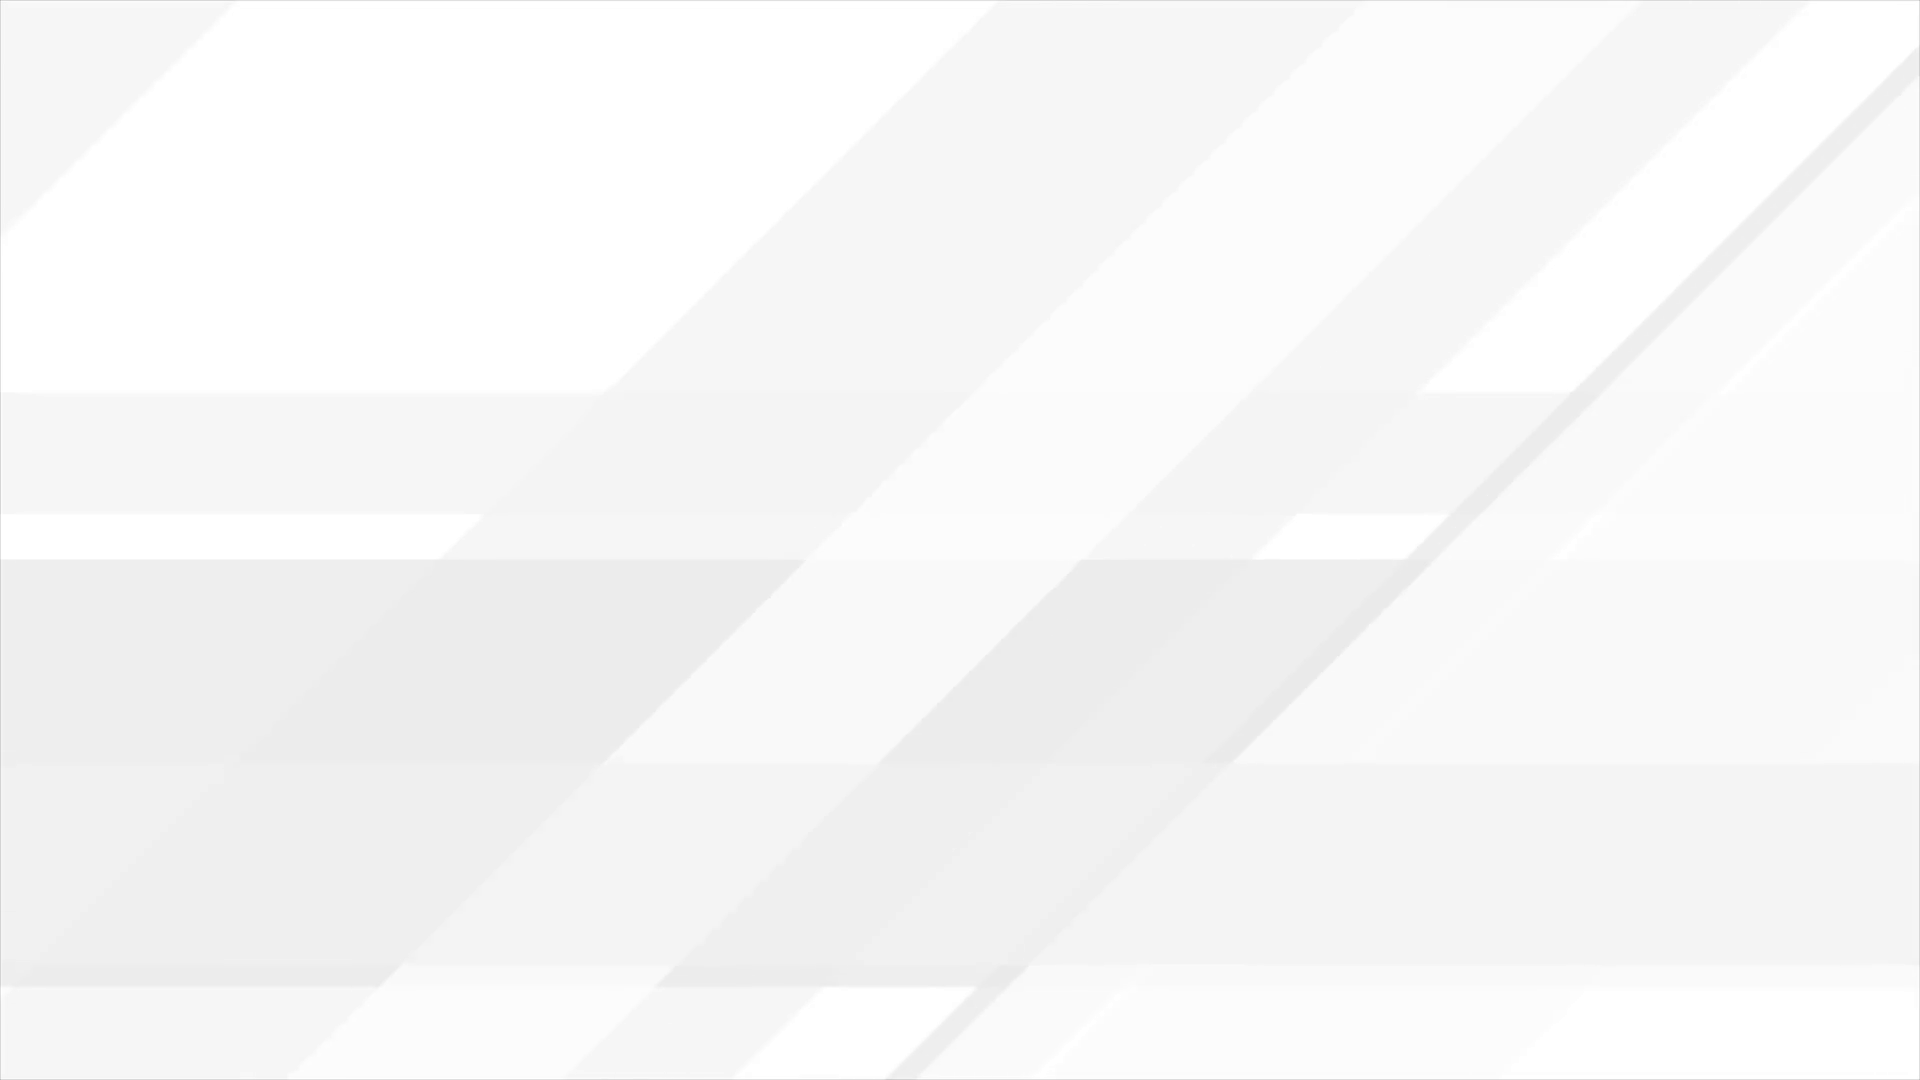
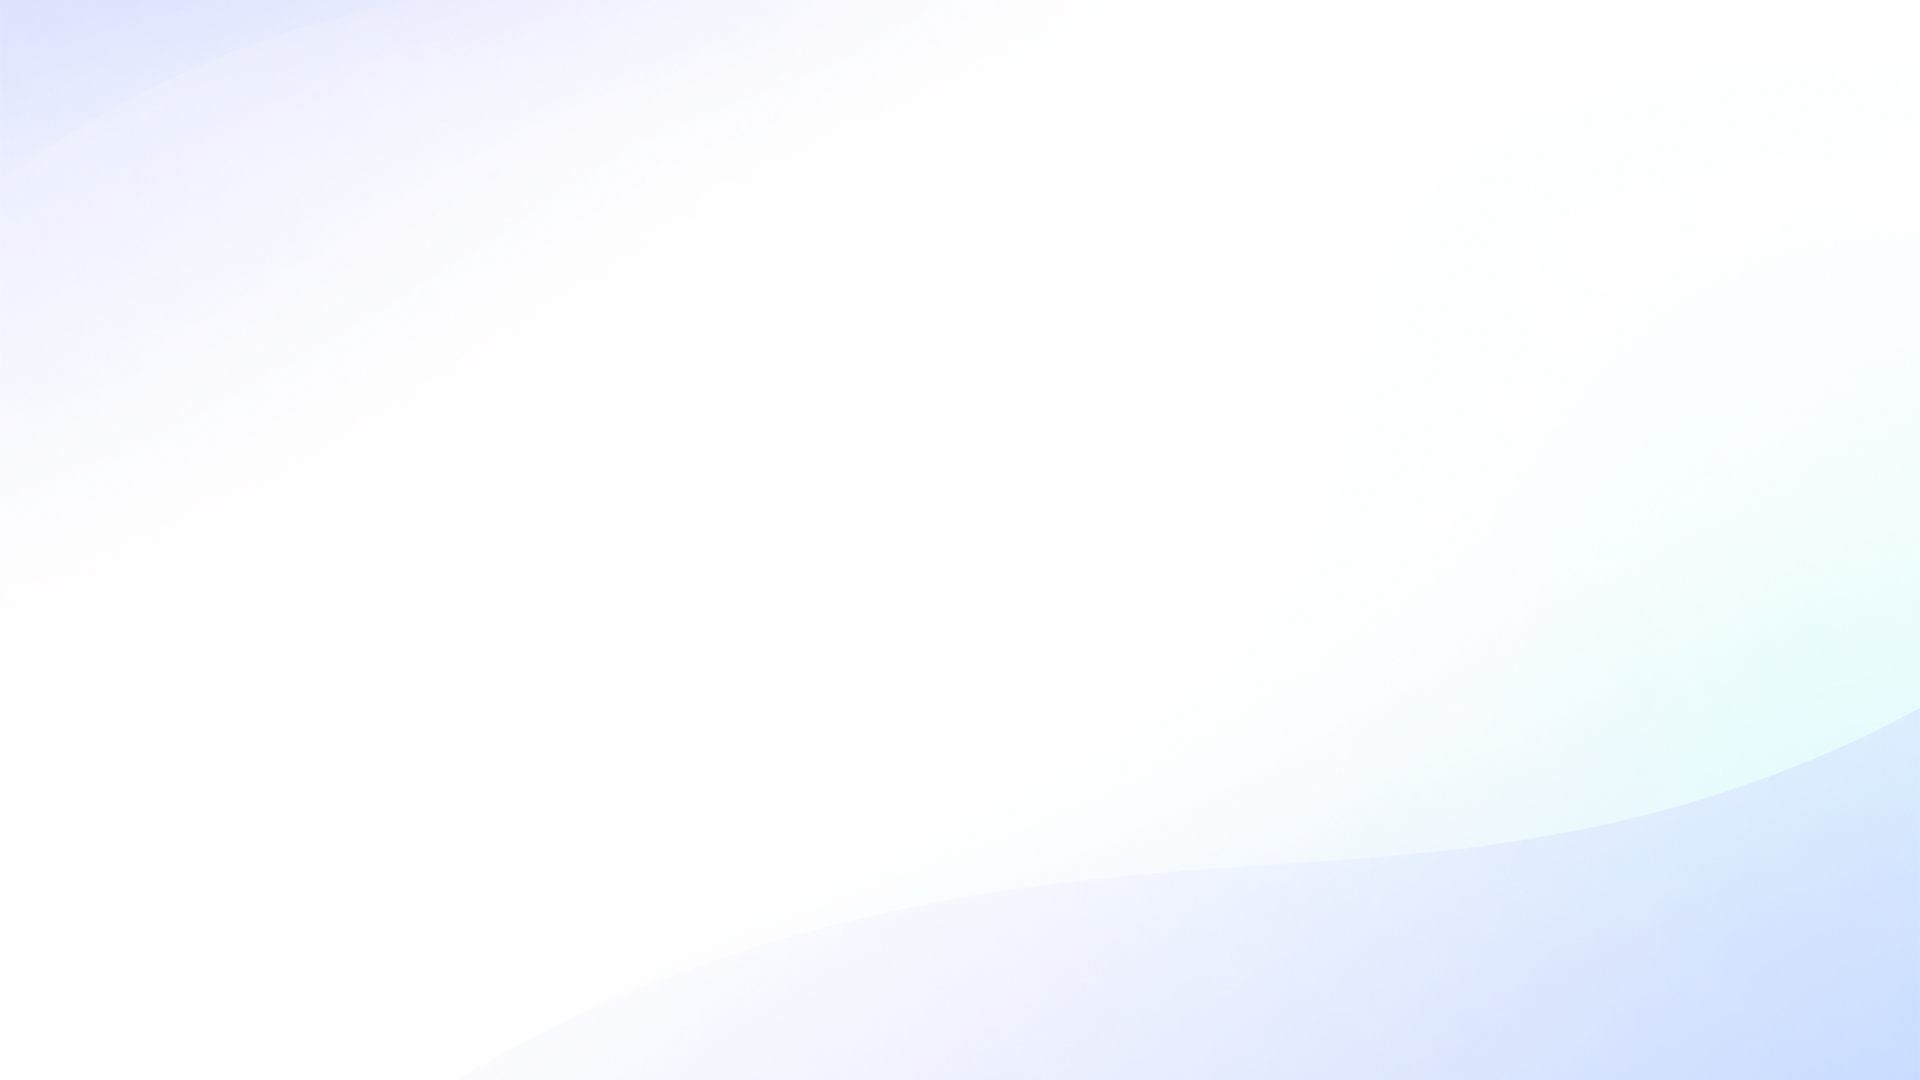
new style with the new corporate image

Changed region(s): [[0.6562, 0.6417, 1.0, 1.0], [0.0, 0.0, 0.1875, 0.0611]]

diff --git a/style.css b/style.css
@@ -1,8 +1,8 @@
 /* 
   * CSS Including Icon Styles
  * Based on CSS Created by K. Rhodus - QSC
- * Version 1.2
- * Antonio Vargas 2025
+ * Version 1.3
+ * Antonio Vargas 2026
 
   Look here for new icons to add (for -qsc-icon-font: material):
   https://fonts.google.com/icons
@@ -46,27 +46,27 @@ https://fontawesome.com/search?ic=free
     --icon-align: center;
     --text-align: center;
 
-    --button-color-off: rgb(237, 237, 237);
-    --text-color-off:rgb(98, 61, 104); 
-    --icon-color-off: rgb(98, 61, 104); 
-    --border-color-off: rgb(237, 237, 237);
+    --button-color-off: rgb(255, 255, 255);
+    --text-color-off:rgb(18, 43, 133); 
+    --icon-color-off: rgb(18, 43, 133); 
+    --border-color-off: rgb(255, 255, 255);
 
-    --button-color-on: rgb(98, 61, 104);
+    --button-color-on: rgb(18, 43, 133);
     --text-color-on: rgb(237, 237, 237);
     --icon-color-on: rgb(237, 237, 237);
-    --border-color-on: rgb(98, 61, 104);
+    --border-color-on: rgb(18, 43, 133);
     
     --label-color-primary:rgb(37, 37, 37);
-    --label-color-secondary: rgb(217, 209, 198); 
+    --label-color-secondary: rgb(255, 255, 255); 
     
-    --icon-colored: rgb(98, 61, 104); 
+    --icon-colored: rgb(18, 43, 133); 
     /*https://cssgradient.io/*/
     --fader-gradient: linear-gradient(0deg, rgb(5, 5, 5) 10%, rgb(235, 162, 5) 70%, rgb(255, 25, 0) 100%);
-    --base-var: rgb(98, 61, 104);
-    --end-var: rgb(134, 88, 141);
+    --base-var: rgb(18, 43, 133);
+    --end-var: rgb(18, 43, 133);
 
     --background-color: rgb(228, 222, 233);
-    --button-border-radius: 6px;
+    --button-border-radius: 1px;
 
     --default-font-size: 40vh;
 }
@@ -133,7 +133,7 @@ Keep coping icons that you are interested of from the Icons_Materials and Icons_
 .dummy-button
 {
     background-color: var(--button-color-off);
-    border: 1px;
+    border: var(--button-border-radius);
     border-radius: var(--button-border-radius);
     color: var(--text-color-off);
     -qsc-icon-color: var(--icon-color-off);
@@ -143,8 +143,8 @@ Keep coping icons that you are interested of from the Icons_Materials and Icons_
 
 .project-button
 {
-    background-color: white;
-    border: 1px;
+    background-color: var(--button-color-off);
+    border: var(--button-border-radius);
     border-radius: var(--button-border-radius);
     color: var(--text-color-off);
     -qsc-icon-color: var(--icon-color-off);
@@ -159,7 +159,7 @@ Keep coping icons that you are interested of from the Icons_Materials and Icons_
     background: linear-gradient(to top left,var(--base-var), var(--end-var));
     */
     background: linear-gradient(90deg,var(--base-var), var(--end-var));
-    border: 1px;
+    border: var(--button-border-radius);
     border-radius: var(--button-border-radius);
     color: var(--text-color-on);
     
@@ -174,27 +174,13 @@ Keep coping icons that you are interested of from the Icons_Materials and Icons_
     background: linear-gradient(to top left,var(--base-var), var(--end-var));
     */
     background: linear-gradient(90deg,var(--base-var), var(--end-var));
-    border: 1px;
+    border: var(--button-border-radius);
     border-radius: var(--button-border-radius);
     color: var(--text-color-on);
     
     -qsc-icon-color: var(--icon-color-on);
     border-color: var(--border-color-on);
     font-family: 'Montserrat';
-}
-
-.console-image
-{
-    border: 2px;
-}
-
-.console-image:value(1)
-{
-    border: 2px;
-    color: var(--text-color-on);
-    -qsc-icon-color: var(--icon-color-on);
-    border-color: var(--border-color-on);
-    font-family: 'Montserrat';    
 }
 
 .menu-button
@@ -325,7 +311,7 @@ textblock
 {
     background-color: var(--button-color-off);
     color: var(--text-color-off);
-    border: 1px;
+    border: var(--button-border-radius);
     border-radius: var(--button-border-radius);
     -qsc-icon-color: var(--icon-color-off);
     border-color: var(--border-color-on);
@@ -337,7 +323,7 @@ textblock
     background-color: rgb(179, 0, 0); 
     color: var(--text-color-on);
     border-color: var(--border-color-on);
-    border: 1px;
+    border: var(--button-border-radius);
     border-radius: var(--button-border-radius);
     -qsc-icon-color: white;
     -qsc-icon: "volume-strike";
@@ -413,10 +399,10 @@ textblock
 
 .background
 {
+    background-image: url('images/background.png');
     /*
-    background-image: url('images/background4.jpg');
-    */
     background-color: var(--background-color);
+    */
 }
 
 page{
@@ -428,7 +414,10 @@ page{
         to bottom right
     */
     /*background: linear-gradient(to top left,var(--base-var), var(--end-var));*/
+    /*
     background-color: var(--background-color);
+    */
+    background-image: url('images/background.png');
 }
 
 .logo
